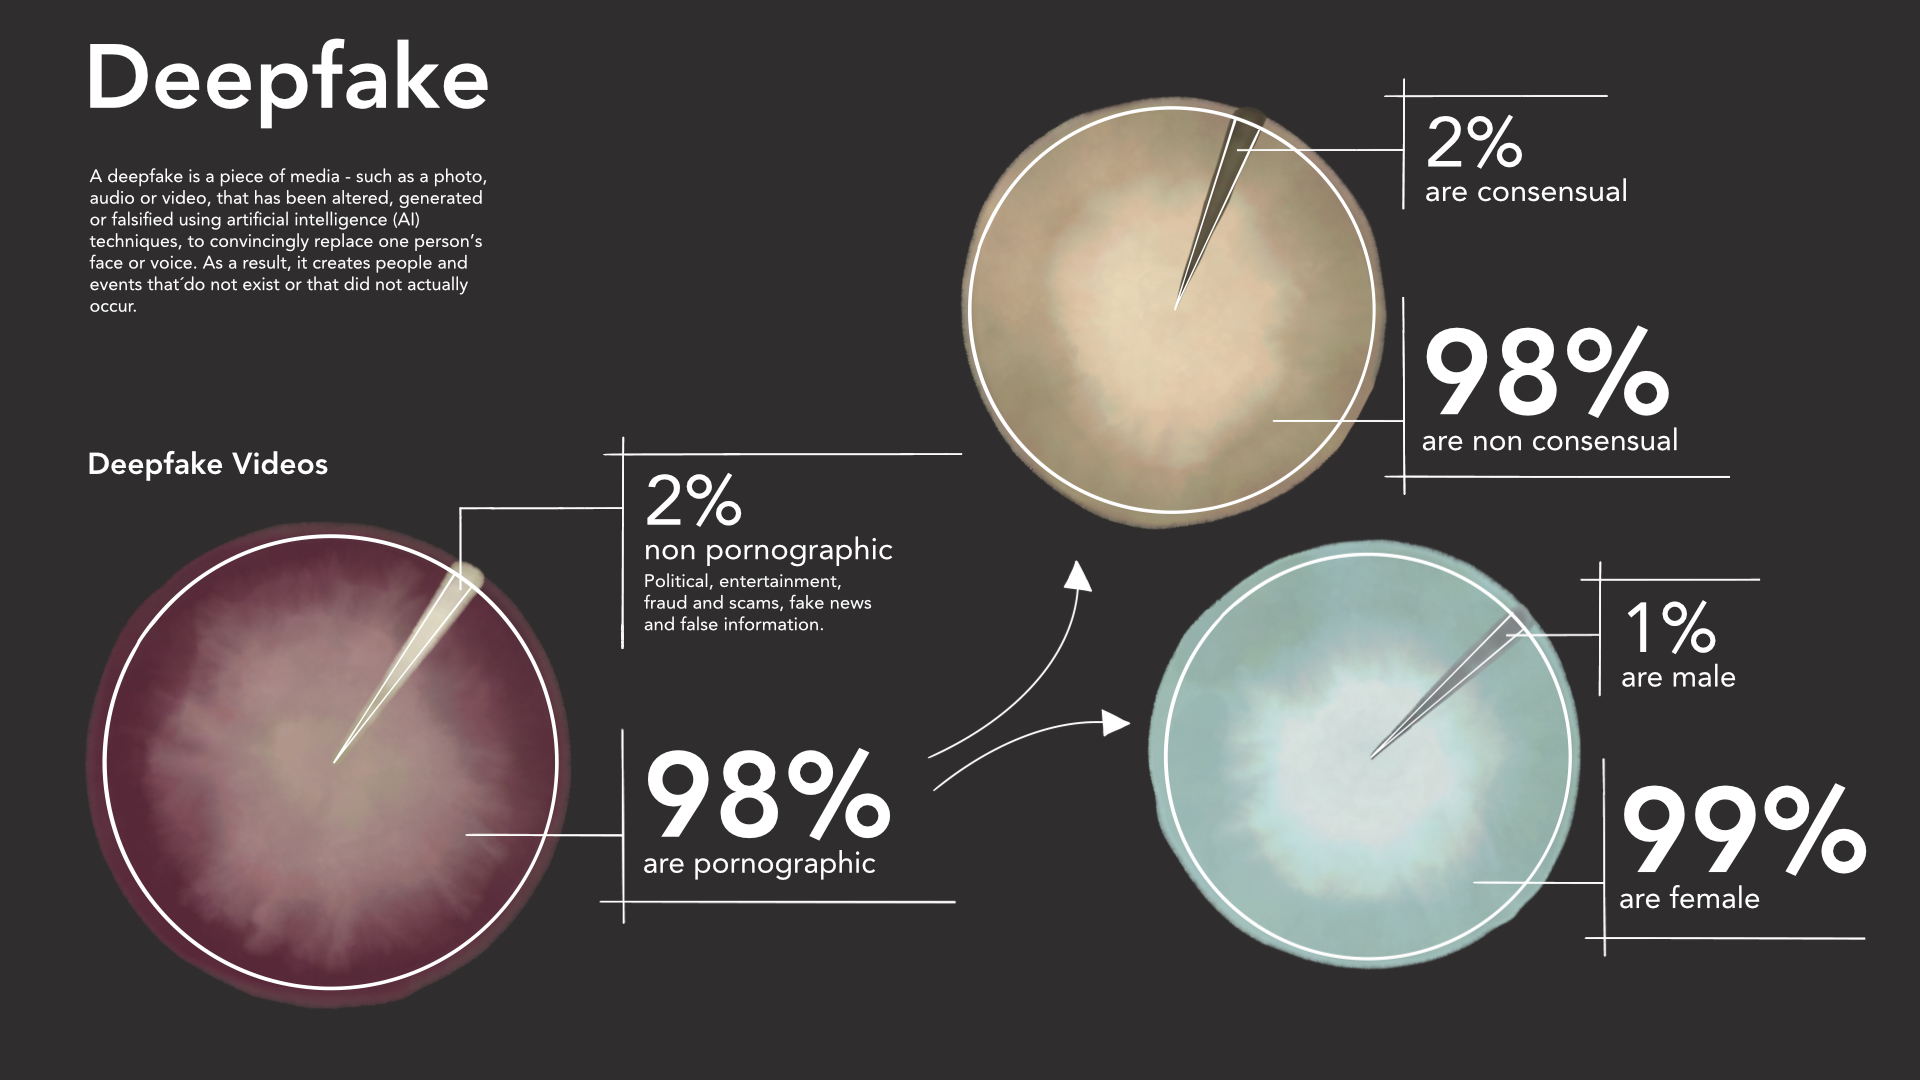
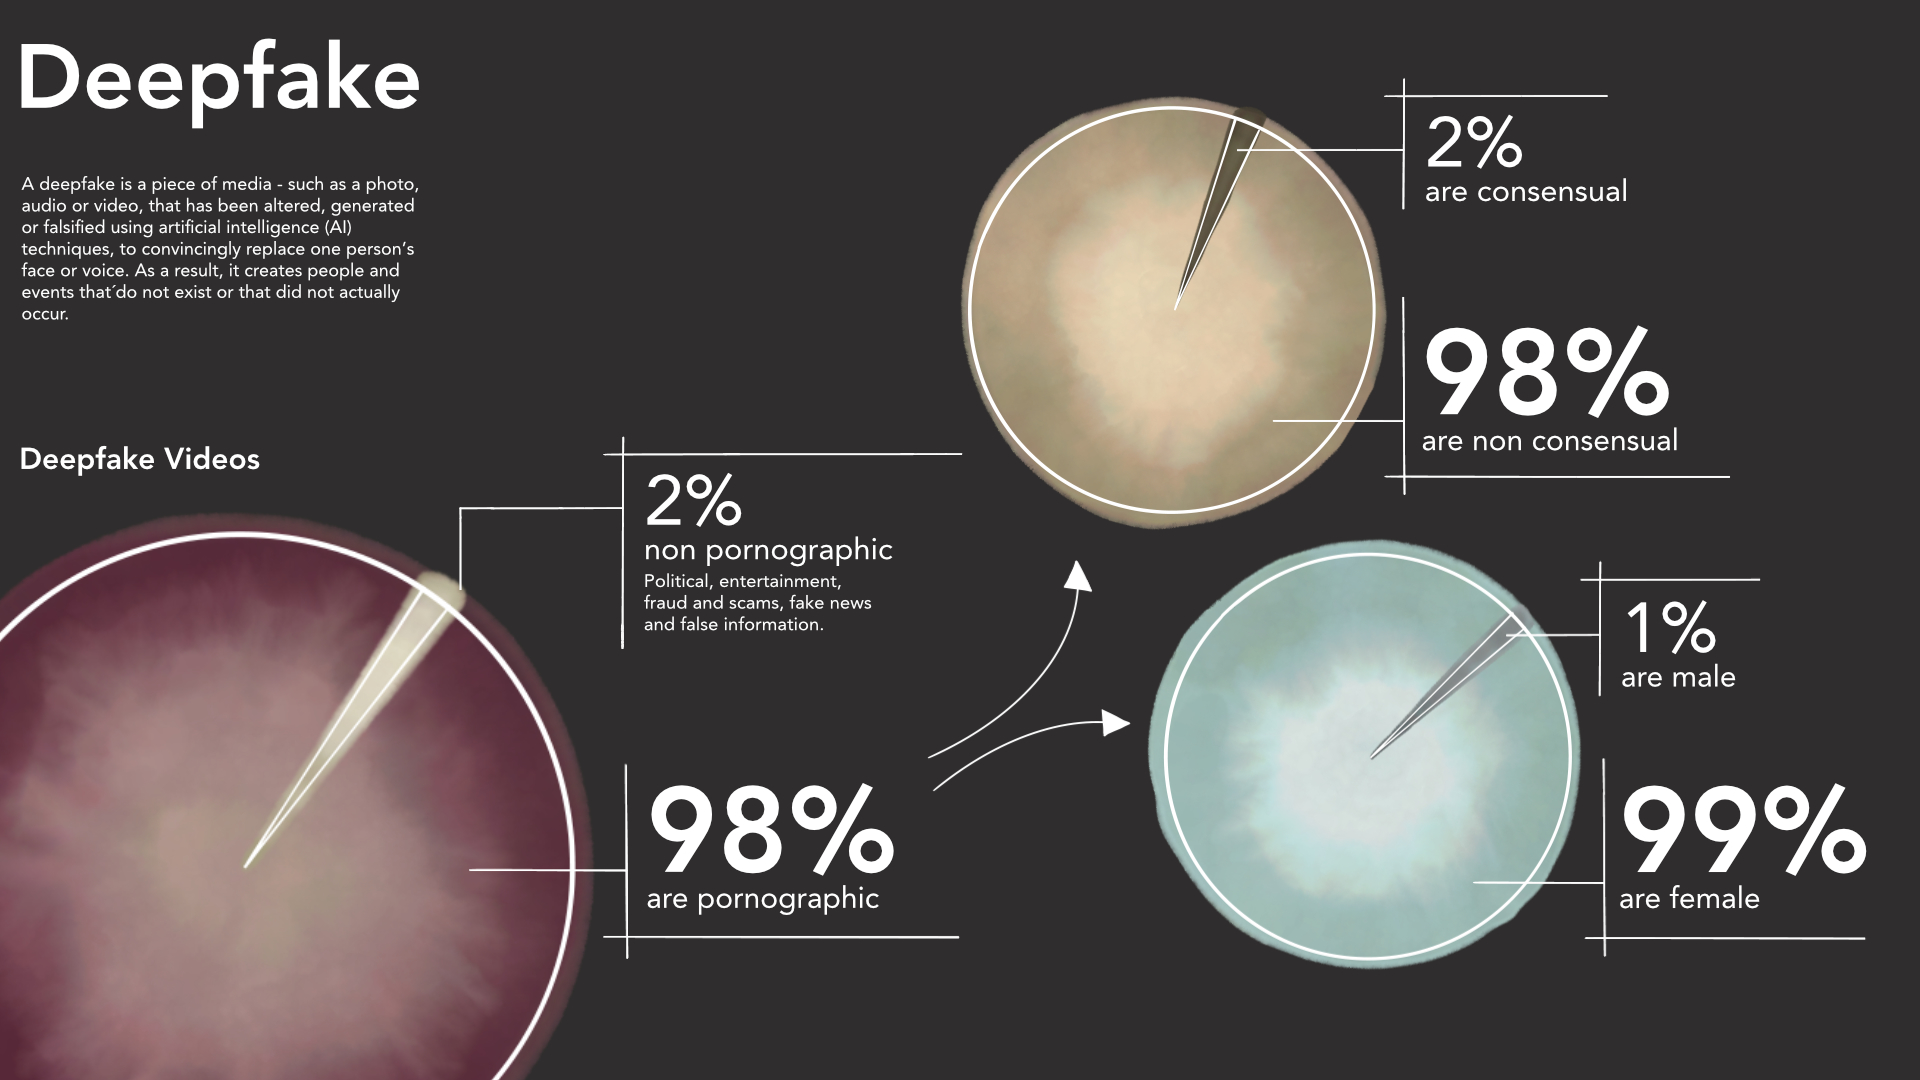
joa

Changed region(s): [[0.0, 0.3972, 0.5, 1.0], [0.0, 0.1528, 0.25, 0.3056], [0.0, 0.0306, 0.25, 0.1222]]

diff --git a/sketch.js b/sketch.js
@@ -36,6 +36,8 @@ function setup() {
   createCanvas(windowWidth,windowHeight*6);
   background(47, 45, 45);
 
+
+  
 }
 
 function draw() {
@@ -66,7 +68,7 @@ function draw() {
 
   push(); 
   scale(0.93);
-  image(pfeil1, windowWidth/40.48387,0,windowWidth,neueHoehe); 
+  image(pfeil1, windowWidth/38,windowWidth/53.404255,windowWidth,neueHoehe); 
   pop();
 
   push();
@@ -103,7 +105,7 @@ headline
 fill(255,80,255);
 textFont(headline);
 textSize(windowWidth/22.979);
-text('Deepfake', windowWidth/15.72,windowWidth/19.160305);
+text('Deepfake', windowWidth/33,windowWidth/19.160305);
 
 
 //definition
@@ -111,13 +113,13 @@ textFont(fließtext);
 textSize(windowWidth/114.89675);
 textLeading(windowWidth/96);
 text('A deepfake is a piece of media - such as a photo,\naudio or video, that has been altered, generated\nor falsified using artificial intelligence (AI) \ntechniques, to convincingly replace one person’s \nface or voice. As a result, it creates people and \nevents that´do not exist or that did not actually \noccur.',
-windowWidth/14.940476, windowWidth/11.331828); 
+windowWidth/29.8, windowWidth/10.9); 
 
 //diagramm eins
 
 textFont(headline);
 textSize(windowWidth/68.5);
-text('Deepfake Videos', windowWidth/15.3 , windowWidth/4.351)
+text('Deepfake Videos', windowWidth/31 , windowWidth/4.399)
 
 textFont(fließtext); 
 textSize(windowWidth/28.8);
@@ -131,11 +133,11 @@ text ('Political, entertainment,\nfraud and scams, fake news\nand false informat
 
 textFont(headline);
 textSize(windowWidth/17.310344); 
-text('98%',windowWidth/2.986,windowWidth/2.469)
+text('98%',windowWidth/2.97,windowWidth/2.37)
 
 textFont(fließtext);
 textSize(windowWidth/69); 
-text('are pornographic', windowWidth/2.988, windowWidth/2.365);
+text('are pornographic', windowWidth/2.97, windowWidth/2.275);
 
 
 //diagramm zwei
@@ -196,9 +198,9 @@ function drawPiechartone() {
   ];
   let werte = [0.02, 0.98];
 
-  let arcX = windowWidth/5.5;
-  let arcY = windowWidth/2.7;
-  let arcS = windowWidth/4.3;
+  let arcX = windowWidth/7;
+  let arcY = windowWidth/2.4;
+  let arcS = windowWidth/2.886044;
   
   let rotation=  HALF_PI/1.57;
   let startwinkel = -rotation
